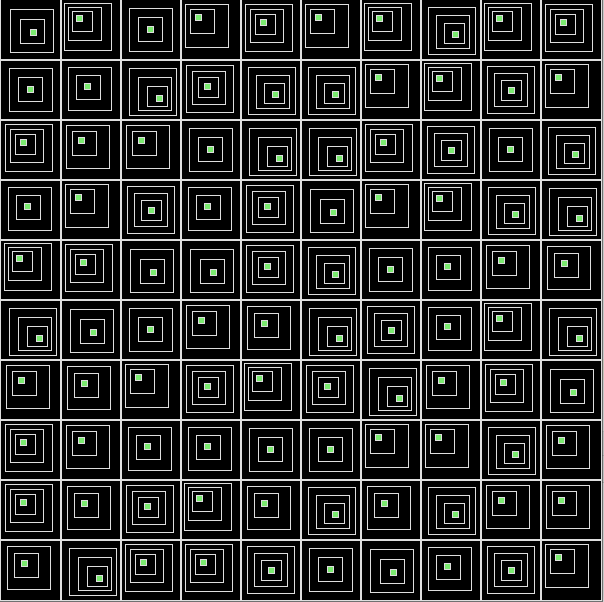
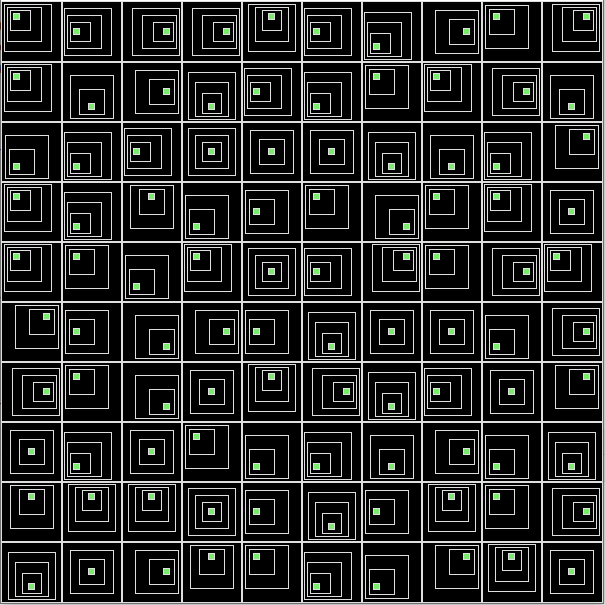
优化

diff --git a/HypnoticSquares/draw.cpp b/HypnoticSquares/draw.cpp
@@ -13,6 +13,24 @@ static float windowWidth { gridCnt * gridWidth + 2*thickness };
 
 int randomNumber(int min, int max);
 
+// give a square's position(eg: x=0, y=0, _width=10), randomly return a point from:
+//   (2.5, 2.5), (2.5, 5.0), (2.5, 7.5)
+//   (5.0, 2.5), (5.0, 5.0), (5, 7.5)
+//   (7.5, 2.5), (7.5, 5.0), (7.5, 7.5)
+sf::Vector2<float>* randomMidPoint(float x, float y, float _width) {
+    float minStep { _width / 4 };
+    int randomX { randomNumber(1, 3) };
+    int randomY { randomNumber(1, 3) };
+    sf::Vector2<float>* res { new sf::Vector2<float>(randomX*minStep+x, randomY*minStep+y) };
+    return res;
+}
+
+// get a square's position by its mid point
+sf::Vector2<float>* getPositionFromMidPoint(sf::Vector2<float>* p, float _wdith) {
+    sf::Vector2<float>* res { new sf::Vector2<float>(p->x-(_wdith/2), p->y-(_wdith/2)) };
+    return res;
+}
+
 sf::RectangleShape* drawRect(float _width, float x, float y) {
     auto rect { new sf::RectangleShape };
     rect->setSize(sf::Vector2(_width, _width));
@@ -24,18 +42,28 @@ sf::RectangleShape* drawRect(float _width, float x, float y) {
 }
 
 void drawInnerRects(sf::RectangleShape* r, std::vector<sf::RectangleShape*>& rs) {
+    // position and width of r
     float x { r->getPosition().x };
     float y { r->getPosition().y };
-    float width { r->getSize().x };
+    float _width { r->getSize().x };
 
+    // position and width of the most inner grid
+    float minWidth { 5.f };  // must have a fixed width
+    sf::Vector2<float>* mid { randomMidPoint(x, y, _width) };
+    sf::Vector2<float>* pos { getPositionFromMidPoint(mid, minWidth) };
+    float maxX { pos->x };
+    float maxY { pos->y };
+
+    // random count of total inner grids
     int totalInnerGridCnt { randomNumber(3, 4) };
 
-    float minWidth { 5.f };  // must have a smallest grid inside
-    float widthDecr { (gridWidth-minWidth) / totalInnerGridCnt };  // each step decrease the width of grid
+    // decrease or increase of width and position of those grids
+    float widthDecr { (gridWidth-minWidth) / totalInnerGridCnt };
+    float xIncr { (maxX-x) / totalInnerGridCnt };
+    float yIncr { (maxY-y) / totalInnerGridCnt };
 
-    int offset { randomNumber(8-totalInnerGridCnt, 13-totalInnerGridCnt) };  // for random position
     for (int i {1}; i<=totalInnerGridCnt; ++i) {
-        rs.push_back(drawRect(width-widthDecr*i, x+offset*i, y+offset*i));
+        rs.push_back(drawRect(_width-widthDecr*i, x+xIncr*i, y+yIncr*i));
     }
     rs.back()->setFillColor(sf::Color(123, 234, 111));
 }
